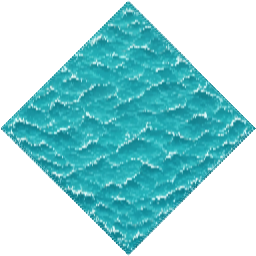
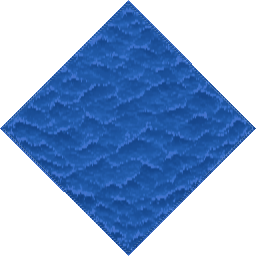
箱庭島：海／淺灘分貼圖（原海面→淺灘，加深藍→海） (#58)
Keep shallow-01 as the previous cyan sea top; recolor sea-01 deeper blue.
Opening map rings the center-7 land with 淺灘; tools／labels／user_art already
cover both keys. Smoke asserts distinct tops and coastal fill.

diff --git a/hakoniwa/smoke_test.py b/hakoniwa/smoke_test.py
@@ -328,7 +328,10 @@ def test_new_island_and_loop():
     assert state.land_count() == 7
     assert state.funds == 1000
     sea = sum(1 for row in state.cells for c in row if c.terrain == "sea")
-    assert sea == 20 * 20 - 7
+    shallow = sum(1 for row in state.cells for c in row if c.terrain == "shallow")
+    assert sea + shallow == 20 * 20 - 7
+    assert shallow > 0, "opening map should ring land with 淺灘"
+    assert sea > 0, "opening map should keep deep 海 beyond the ring"
 
     # Need 平地 for buildings — level a dirt cell first if needed.
     land = [(i, j) for i in range(20) for j in range(20) if state.is_land(i, j)]
@@ -361,23 +364,50 @@ def test_new_island_and_loop():
     if dirt:
         assert state.place_building(dirt[0], dirt[1], "factory") != "ok"
 
-    # Landfill: sea → shallow (adjacent), then shallow → dirt.
+    # Landfill coastal 淺灘 → 荒地 (opening map rings land with shallow).
     filled = False
     for si in range(20):
         for sj in range(20):
-            if state.can_landfill(si, sj) and state.cell(si, sj).terrain == "sea":
+            if state.can_landfill(si, sj) and state.cell(si, sj).terrain == "shallow":
                 funds_before = state.funds
                 assert state.landfill(si, sj) == "ok"
-                assert state.cell(si, sj).terrain == "shallow"
-                assert state.funds == funds_before - COST_LANDFILL
-                assert state.landfill(si, sj) == "ok"
                 assert state.cell(si, sj).terrain == "dirt"
+                assert state.funds == funds_before - COST_LANDFILL
                 filled = True
                 break
         if filled:
             break
     assert filled
     assert state.land_count() == 8
+
+    # Landfill 海→淺灘 when a deep-sea cell is forced adjacent to land.
+    sea_touch = next(
+        (
+            (ni, nj)
+            for i, j in [(x, y) for x in range(20) for y in range(20) if state.is_land(x, y)]
+            for ni, nj in neighbors(i, j)
+            if state.cell(ni, nj).terrain == "sea"
+        ),
+        None,
+    )
+    if sea_touch is None:
+        # Convert one coastal shallow neighbor-of-shallow into sea next to new dirt.
+        coast = next(
+            (
+                (i, j)
+                for i in range(20)
+                for j in range(20)
+                if state.cell(i, j).terrain == "shallow" and state._adjacent_to_land(i, j)
+            ),
+            None,
+        )
+        assert coast is not None
+        state.cells[coast[0]][coast[1]] = Cell("sea")
+        sea_touch = coast
+    funds_before = state.funds
+    assert state.landfill(*sea_touch) == "ok"
+    assert state.cell(*sea_touch).terrain == "shallow"
+    assert state.funds == funds_before - COST_LANDFILL
 
     # 植林 on empty grass.
     grass_empty = next(
@@ -2313,21 +2343,22 @@ def test_tool_enabled_rules():
     assert ok is False
     assert "資金" in reason
 
-    # Sea cell adjacent to land → landfill ok when funded.
+    # Coastal 淺灘／海 adjacent to land → landfill ok when funded.
     state.funds = 1000
-    sea_adj = next(
+    water_adj = next(
         (
             (i, j)
             for i in range(20)
             for j in range(20)
-            if state.can_landfill(i, j) and state.cell(i, j).terrain == "sea"
+            if state.can_landfill(i, j)
+            and state.cell(i, j).terrain in ("sea", "shallow")
         ),
         None,
     )
-    assert sea_adj is not None
-    ok, _ = tool_enabled(state, "landfill", sea_adj)
+    assert water_adj is not None
+    ok, _ = tool_enabled(state, "landfill", water_adj)
     assert ok is True
-    ok, reason = tool_enabled(state, "farm", sea_adj)
+    ok, reason = tool_enabled(state, "farm", water_adj)
     assert ok is False
     assert "平地" in reason
 
@@ -2346,7 +2377,7 @@ def test_dialog_import_offscreen():
     from hakoniwa.dialog import TourismIslandDialog, TourismListDialog
 
     dlg = HakoniwaIslandDialog(None, None)
-    assert dlg.windowTitle() == "箱庭島"
+    assert "箱庭島" in dlg.windowTitle()
     assert dlg.state.land_count() == 7
     assert dlg._online is False
     assert "本機" in dlg.conn_status.text()
@@ -2660,7 +2691,7 @@ def test_server_api_if_available():
 
 
 def test_terrain_top_assets():
-    """Bundled dirt／grass／sea flat tops must exist (no skirt assets required)."""
+    """Bundled dirt／grass／海／淺灘 flat tops must exist (no skirt assets required)."""
     from hakoniwa.tiles import (
         OCEAN_BACKGROUND,
         TERRAIN_TILE_FILES,
@@ -2668,11 +2699,13 @@ def test_terrain_top_assets():
         ATLAS,
     )
 
-    for key in ("dirt", "grass", "sea"):
+    for key in ("dirt", "grass", "sea", "shallow"):
         fname = TERRAIN_TILE_FILES[key]
         path = TILES_DIR / fname
         assert path.is_file(), f"missing terrain top {path}"
         assert path.stat().st_size > 1000, path
+    # Distinct files: 淺灘 keeps original cyan sea art; 海 is deeper blue recolor.
+    assert TERRAIN_TILE_FILES["sea"] != TERRAIN_TILE_FILES["shallow"]
     # Ocean backdrop is preferred but optional (dark teal fallback).
     if OCEAN_BACKGROUND.is_file():
         assert OCEAN_BACKGROUND.stat().st_size > 1000
@@ -2687,12 +2720,12 @@ def test_terrain_top_assets():
         print(f"terrain assets: skip Qt load ({exc})")
         return
     _app = QApplication.instance() or QApplication([])
-    assert ATLAS.has_primary_tops(), "dirt/grass/sea tops failed to load"
-    for key in ("dirt", "grass", "sea"):
+    assert ATLAS.has_primary_tops(), "dirt/grass/sea/shallow tops failed to load"
+    for key in ("dirt", "grass", "sea", "shallow"):
         pix = ATLAS.pixmap_for(key)
         assert pix is not None and not pix.isNull()
         assert pix.width() >= 64 and pix.height() >= 64
-    print("terrain tops: dirt/grass/sea OK")
+    print("terrain tops: dirt/grass/sea/shallow OK")
 
 
 def test_user_art_loader_hook():

diff --git a/hakoniwa/model.py b/hakoniwa/model.py
@@ -240,11 +240,12 @@ FOREST_FIRE_FACTOR = 0.25     # any adjacent 森 → fire chance × this
 FOREST_TYPHOON_FACTOR = 0.35  # any adjacent 森 → typhoon chance × this
 BREAKWATER_TSUNAMI_FACTOR = 0.25  # adjacent 防波堤 → tsunami chance × this
 
-# Terrain kinds — map paints flat top textures (dirt／grass／sea) via tiles.py;
-# ``color`` remains fallback / tint basis. Opening map: 中央 7 泥／草, rest 海.
+# Terrain kinds — map paints flat top textures (dirt／grass／海／淺灘) via tiles.py;
+# ``color`` remains fallback / tint basis. Opening map: 中央 7 泥／草,
+# coastal 淺灘 ring, rest 海 (deep).
 TERRAIN = {
-    "sea": {"label": "海", "color": (42, 110, 168), "land": False},
-    "shallow": {"label": "淺灘", "color": (72, 148, 176), "land": False},
+    "sea": {"label": "海", "color": (28, 72, 140), "land": False},
+    "shallow": {"label": "淺灘", "color": (72, 168, 176), "land": False},
     "oilfield": {"label": "海底油田", "color": (48, 52, 58), "land": False},
     "dirt": {"label": "荒地", "color": (139, 90, 43), "land": True},
     "grass": {"label": "平地", "color": (74, 143, 60), "land": True},
@@ -639,14 +640,20 @@ class IslandState:
     def __post_init__(self) -> None:
         if not self.cells:
             self.cells = self._new_map()
-            self._log("島已生成：中央 7 格陸地（泥／草），其餘為海。")
+            self._log("島已生成：中央 7 格陸地（泥／草），沿岸淺灘，其餘為海。")
 
     def _new_map(self) -> List[List[Cell]]:
         grid = [[Cell("sea") for _ in range(self.size)] for _ in range(self.size)]
         land = center_cluster(self.size)
+        land_set = set(land)
         # First cell dirt, rest alternate dirt/grass for readable placeholders.
         for idx, (i, j) in enumerate(land):
             grid[i][j] = Cell("dirt" if idx % 2 == 0 else "grass")
+        # Coastal 淺灘 ring: land neighbors that are still deep sea.
+        for i, j in land:
+            for ni, nj in neighbors(i, j, self.size):
+                if (ni, nj) not in land_set and grid[ni][nj].terrain == "sea":
+                    grid[ni][nj] = Cell("shallow")
         return grid
 
     def _log(self, msg: str) -> None:

diff --git a/hakoniwa/tiles.py b/hakoniwa/tiles.py
@@ -28,10 +28,11 @@ TILES_DIR = ASSETS_DIR / "tiles"
 OCEAN_BACKGROUND = ASSETS_DIR / "ocean-background.png"
 
 # Primary terrain → active top PNG (flat diamond on black; black keyed out).
+# 淺灘 = original sea art as-is; 海 = same art recolored deeper blue.
 TERRAIN_TILE_FILES: Dict[str, str] = {
     "sea": "sea-01.png",
-    "shallow": "sea-01.png",
-    "oilfield": "sea-01.png",  # reuse sea top + dark wash（色塊；用戶後補平台圖）
+    "shallow": "shallow-01.png",
+    "oilfield": "sea-01.png",  # reuse deep-sea top + dark wash（色塊；用戶後補平台圖）
     "dirt": "dirt-01.png",
     "grass": "grass-01.png",
     "forest": "grass-01.png",
@@ -43,8 +44,8 @@ TERRAIN_TILE_FILES: Dict[str, str] = {
 
 # Optional colour wash after texture (settlements / forest stay readable).
 # Forest uses grass top + deeper green wash (flat top only; no skirts).
+# Shallow keeps un-tinted shallow-01.png; deep sea is baked into sea-01.png.
 TERRAIN_TINT: Dict[str, tuple] = {
-    "shallow": (90, 180, 200, 70),
     "oilfield": (30, 28, 24, 150),  # 海底油田／石油平台色塊洗
     "forest": (12, 58, 24, 120),
     "mountain": (90, 85, 75, 110),
@@ -199,8 +200,8 @@ class TileAtlas:
         return USER_ART.monster_pixmap(kind)
 
     def has_primary_tops(self) -> bool:
-        """True when dirt／grass／sea active tops are all loadable."""
-        for key in ("dirt", "grass", "sea"):
+        """True when dirt／grass／sea／shallow active tops are all loadable."""
+        for key in ("dirt", "grass", "sea", "shallow"):
             pix = self.pixmap_for(key)
             if pix is None or pix.isNull():
                 return False

diff --git a/hakoniwa/user_art.py b/hakoniwa/user_art.py
@@ -1,7 +1,7 @@
 """Optional user-provided PNG art loader for 箱庭島.
 
 Until the player drops files, buildings／monsters stay color blocks and terrain
-uses the bundled sea／dirt／grass tops. Drop PNGs into a user folder to replace
+uses the bundled 海／淺灘／dirt／grass tops. Drop PNGs into a user folder to replace
 those placeholders — this module never ships new artwork.
 
 Search order (first existing file wins per key):

diff --git a/hakoniwa/view.py b/hakoniwa/view.py
@@ -1,4 +1,4 @@
-"""箱庭斜視 map widget — textured diamond tops (dirt／grass／sea) + overlays.
+"""箱庭斜視 map widget — textured diamond tops (dirt／grass／海／淺灘) + overlays.
 
 Lattice is logical 1:1 diamonds with v9 stagger, then H/W≈0.65 oblique
 foreshortening (Y *= OBLIQUE_Y_SCALE) from ``hakoniwa.grid`` — NOT a flat

diff --git a/hakoniwa/assets/user/README.md b/hakoniwa/assets/user/README.md
@@ -2,7 +2,7 @@
 
 Optional PNGs that replace 箱庭島 color-block buildings／monsters (and optionally
 terrain tops). Leave empty until you have art — the game falls back to color
-blocks and bundled sea／dirt／grass.
+blocks and bundled 海／淺灘／dirt／grass.
 
 Preferred runtime path (beside the save file):
 
